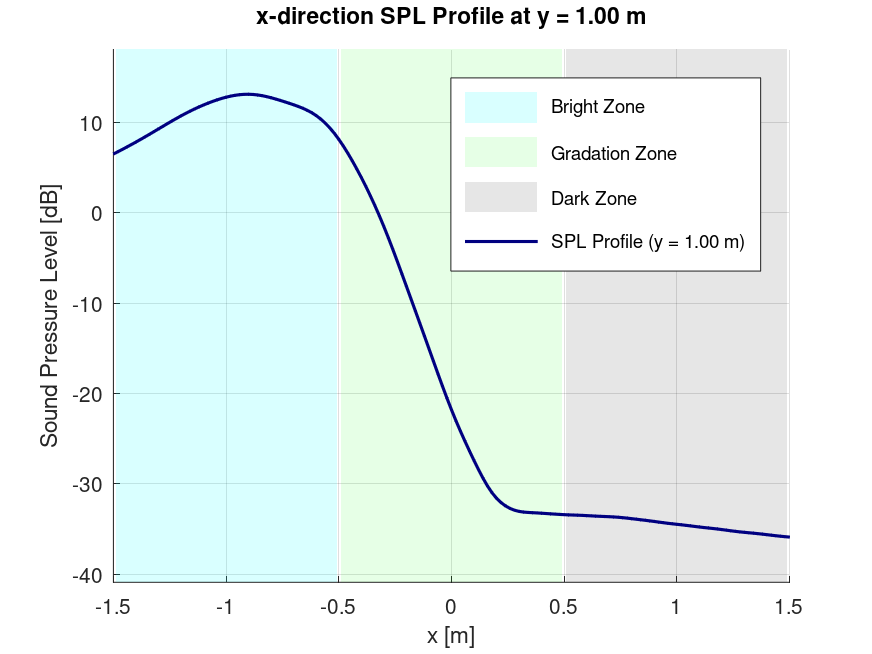
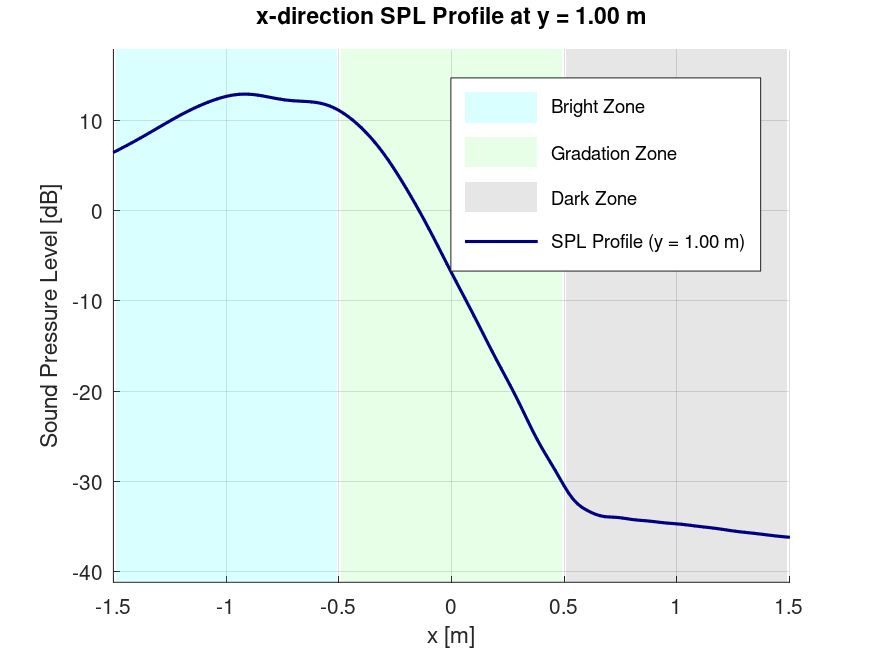
バグ修正

diff --git a/filter_pm.m b/filter_pm.m
@@ -58,13 +58,30 @@ function drv_ls = filter_pm(mic_geo, G, f, ang_wave, amp_src, Nsrc, c, num_bz, n
         min_x_gz = min(mic_geo(gz_idx_start:gz_idx_end, 1));
         max_x_gz = max(mic_geo(gz_idx_start:gz_idx_end, 1));
 
-        % 減衰の急峻さを制御するパラメータ (大きいほど急速に落ちる)
-        alpha = 5.0; 
+        % GZ幅が実質0(x方向の制御点が1列だけ等)だと、下のtの計算が
+        % 0/0 = NaN になり、全スピーカーの駆動信号がエラーなくNaN化して
+        % しまう。「GZ幅を狭める」検討をする際に踏みやすい落とし穴なので、
+        % ここで明示的に検出して止める。
+        if (max_x_gz - min_x_gz) < eps
+            error('filter_pm:degenerateGZ', ...
+                'GZのx方向の幅が実質0です。gz_size(1)がitv_mic(1)に対して小さすぎる可能性があります。pos_sp_mic.m側の設定を見直してください。');
+        end
 
-        % GZ全体(BZ側 t=0 ～ DZ側 t=1)を通して目標音圧・重みを単調に遷移させる。
-        % 旧実装ではGZ前半後半で場合分けしており、前半末尾で重みが500まで
-        % 上がった直後に後半で100へ急落する不連続（谷）が生じていたため統一した。
-        % 振幅は前半のみだった減衰域をGZ全体に広げ、DZ境界でほぼ0(-87dB)に収束させる。
+        % GZ内で目標(dB)を滑らかに遷移させるためのパラメータ。
+        %   floor_dB : GZ→DZ境界で到達させる相対音圧レベル[dB]。
+        %              現時点では暫定値。心理音響閾値(JND)フェーズで、
+        %              JNDから逆算した「GZ幅で許容できる減衰量」に置き換える。
+        %
+        % 境界(t=0, t=1)で勾配がゼロになるスムーズステップ関数 s(t) を使い、
+        % BZ(勾配0の一定値)・DZ(勾配0の一定値=0)との接続点にキンク
+        % (勾配の不連続)が生じないようにする。
+        % 旧実装(振幅を指数減衰=dBで直線的に減衰)は、BZ境界で勾配が
+        % 0 → 約-87dB/GZ幅へ不連続にジャンプしており、これがPM解が
+        % 名目上の境界より手前からなだらかに音圧を落とし始める一因になって
+        % いたと考えられる。また目標がGZ→DZ境界で-87dBという実現困難な
+        % 深さを要求していた点も、floor_dBを現実的な値にすることで緩和する。
+        floor_dB = -40.0;
+
         for i = gz_idx_start:gz_idx_end
             x_m = mic_geo(i,1);
             y_m = mic_geo(i,2);
@@ -72,13 +89,16 @@ function drv_ls = filter_pm(mic_geo, G, f, ang_wave, amp_src, Nsrc, c, num_bz, n
             % 0 (BZ側) ～ 1 (DZ側) に正規化した位置パラメータ t
             t = (x_m - min_x_gz) / (max_x_gz - min_x_gz);
 
-            % 1. 目標音圧をGZ全体で指数的に減衰: 1.0 -> 約4.5e-5 (約 -87dB、実質0)
-            amp_g = amp_src * exp(-2 * alpha * t);
+            % 両端(t=0, t=1)で微分ゼロのスムーズステップ (Hermite smoothstep)
+            s = 3*t.^2 - 2*t.^3;
+
+            % 1. 目標音圧をdB領域で滑らかにfloor_dBまで遷移させる
+            amp_g = amp_src * 10^(floor_dB * s / 20);
             p_des(i) = amp_g * exp(1i * (2*pi*f(kk)/c) * (x_m*cos(ang_wave) + y_m*sin(ang_wave)));
 
-            % 2. 重みをGZ全体で対数スケールで単調増加: 1.0 -> 100.0
+            % 2. 重みも同じsを使い対数スケールで単調増加: 1.0 -> 100.0
             %    DZ側の重み(100.0)と連続的に接続する
-            log_w = log10(1.0) + t * (log10(100.0) - log10(1.0));
+            log_w = log10(1.0) + s * (log10(100.0) - log10(1.0));
             w_vec(i) = 10^(log_w);
         end
 

diff --git a/pos_sp_mic.m b/pos_sp_mic.m
@@ -23,6 +23,28 @@ function [pos_sp, pos_mic, num_mic, num_bz, num_gz] = pos_sp_mic(num_sp, y_cente
     dz_x = linspace(-dz_size(1)/2, dz_size(1)/2, n_x_dz);
     dz_y = linspace(-dz_size(2)/2, dz_size(2)/2, n_y_dz);
 
+    % GZ幅(などゾーン幅)をitv_mic(1)に対して狭くしすぎると、x方向の
+    % 格子点数が1点まで減り、filter_pm.m 内の正規化位置t計算が0/0=NaNに
+    % なって全チャンネルが壊れる。エラーメッセージなしで壊れると原因が
+    % わかりにくいため、ここで事前に検出する。
+    % 2点未満は即エラー、5点未満(目安)は「遷移形状を表現するには粗い」
+    % 警告のみ出して処理は続行する。
+    min_pts_hard = 2;
+    min_pts_soft = 5;
+    zone_names = {'BZ', 'GZ', 'DZ'};
+    n_x_list   = [n_x_bz, n_x_gz, n_x_dz];
+    for zi = 1:3
+        if n_x_list(zi) < min_pts_hard
+            error('pos_sp_mic:degenerateZone', ...
+                '%s のx方向格子点数が%dしかありません。zoneの幅をitv_mic(1)に対して広げるか、itv_mic(1)を細かくしてください。', ...
+                zone_names{zi}, n_x_list(zi));
+        elseif n_x_list(zi) < min_pts_soft
+            warning('pos_sp_mic:coarseZone', ...
+                '%s のx方向格子点数が%d点しかありません(目安: %d点以上)。遷移形状を細かく表現できていない可能性があります。', ...
+                zone_names{zi}, n_x_list(zi), min_pts_soft);
+        end
+    end
+
     % -----------------------
     % 各ゾーンのシフト後中心位置
     % BZを左、GZを中央、DZを右に配置。

diff --git a/spl_distribution.m b/spl_distribution.m
@@ -104,7 +104,7 @@ h5 = plot(con_dz(:,1), con_dz(:,2), 'w--', 'LineWidth', 0.8); hold off;
 % グラフの装飾設定
 xlabel("x[m]"); ylabel("y[m]"); % 軸のラベル
 colorbar                        % 画面右側に音圧の大きさと色の対応を示すカラーバーを表示
-clim([-60 0])                 % （コメントアウト：カラーバーの最小値・最大値を固定したい場合に使用）
+clim([-60 15])                 % （コメントアウト：カラーバーの最小値・最大値を固定したい場合に使用）
 daspect([1 1 1])                % 空間の縦横比（アスペクト比）を 1:1 に固定
 
 % 表示範囲ををピクセルの「端」ぴったりに合わせる
